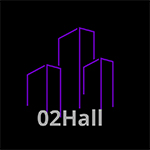
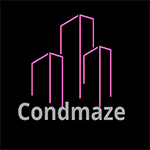
Deploy

Changed region(s): [[0.1067, 0.08, 0.8533, 0.8533]]

diff --git a/src/footerNav.php b/src/footerNav.php
@@ -2,7 +2,7 @@
     <div class="container-fluid">
         <div class="row">
             <div class="col-md-6">
-                <script>document.write(new Date().getFullYear())</script> © O2 Innova
+                <script>document.write(new Date().getFullYear())</script> © CondMaze
             </div>
             <div class="col-md-6">
                 <div class="text-md-end footer-links d-none d-md-block">
